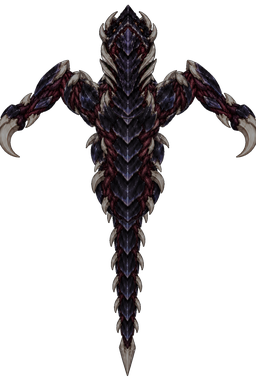
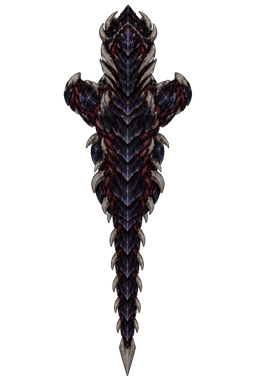
Spitter: no arms; the body rears out of one thick tapering tail
Standing and firing, the tail lies curled to one side and stays planted while
the body rears and lunges; on the move it uncurls and slithers. Its first
slices follow the body so the tail never detaches.

diff --git a/src/main/java/com/dillon/starsectormarines/battle/appearance/RavSpitterRig.java b/src/main/java/com/dillon/starsectormarines/battle/appearance/RavSpitterRig.java
@@ -3,21 +3,21 @@ package com.dillon.starsectormarines.battle.appearance;
 import com.dillon.starsectormarines.battle.unit.SwarmStage;
 
 /**
- * The Spitter's skeleton, advanced once per simulation tick: an upright serpent seen from above, its chest reared over
- * a tail coiled beneath it in short slices, two arms each ending in a single hooked talon, and a cobra hood round its
- * head; built from separate parts the way infantry are. Presentation only; it reads where the sim put the body, its attack cooldown and whether it has a target, and
- * nothing in the simulation reads it back.
+ * The Spitter's skeleton, advanced once per simulation tick: an upright serpent seen from above, its haunched back
+ * reared up out of the front of one thick tail in short slices, and a cobra hood round its head; built from separate parts
+ * the way infantry are. Presentation only; it reads where the sim put the body, its attack cooldown and whether it has
+ * a target, and nothing in the simulation reads it back.
  *
- * <p>The rig frame is the body's own, in cells, centred on the sim position (the parts canvas's {@link #ANCHOR_ROW}): x to the right, y forward. It stands on its tail: the tail curls out sideways under the reared chest, sweeps
- * back across beneath it and trails out behind ({@link #COIL}). On the move the coil loosens and a wave runs down it,
- * advanced by distance travelled so it slithers rather than paddles, the chest rolls against it and the head holds
- * steady; turning, the tail lags and bends away from the turn. At rest the coil stills to a slow sway and the
- * arms breathe. The arms are their own parts about their shoulders, so a slash can swing one alone.
+ * <p>The rig frame is the body's own, in cells, centred on the sim position (the parts canvas's {@link #ANCHOR_ROW}):
+ * x to the right, y forward. It rears up out of its tail: the tail leaves the body's centre straight back beneath the
+ * haunch, as broad as it at the root ({@link #GIRTH_ROOT}), and lies on the ground behind, tapering to its spike;
+ * standing, it rests curled to one side ({@link #REST}). On the move it uncurls and slithers, a wave running down it
+ * advanced by distance travelled so it slithers rather than paddles; the chest rolls against it and the head holds
+ * steady; turning, the tail lags and bends away from the turn. At rest it sways slowly.
  *
  * <p>Firing is timed off the attack cooldown, as the Runner's strike is, so the glob leaves on the tick the sim lobs
- * it: as the cooldown runs out with a target held it braces (the hood pops open, the chest rears back, the arms
- * raise forward), and when the cooldown jumps back up the lob has gone: the head lunges, the arms sweep back,
- * and the hood folds again once it has settled.
+ * it: as the cooldown runs out with a target held it braces (the hood pops open, the chest rears back), and when the
+ * cooldown jumps back up the lob has gone: the head lunges, and the hood folds again once it has settled.
  *
  * <p>Built on the approved round 5 design, its parts exported by
  * {@code art-source/rav-redesign/spitter/export_spitter_rig.py}.
@@ -27,35 +27,37 @@ public final class RavSpitterRig {
     /** Parts canvas px per cell; the export and the composer share it. */
     public static final float U_LAYER = 760f;
     /** Canvas row of the body anchor (the sim position) and the centre column the parts mirror about. */
-    public static final float ANCHOR_ROW = 620f, CENTRE_COL = 512f;
-    /** Canvas px of the neck, about which the head turns, and of the left shoulder socket; the right mirrors it. */
-    public static final float NECK_ROW = 300f, SHOULDER_COL = 320f, SHOULDER_ROW = 370f;
-    public static final int TAIL_SEGMENTS = 12;
-    /** Canvas rows of each tail slice's root, and of the tail's tip: the root to the spike, evenly cut. */
-    public static final float[] TAIL_ROWS = new float[TAIL_SEGMENTS + 1];
+    public static final float ANCHOR_ROW = 565f, CENTRE_COL = 512f;
+    /** Canvas row of the neck, about which the head turns. */
+    public static final float NECK_ROW = 300f;
+    /** The exported tail slices, root to spike. */
+    public static final int TAIL_ART_SLICES = 12;
+    /** Canvas rows of each exported slice's root, and of the tail's tip: the root to the spike, evenly cut. */
+    public static final float[] TAIL_ROWS = new float[TAIL_ART_SLICES + 1];
     static {
-        for (int i = 0; i <= TAIL_SEGMENTS; i++) TAIL_ROWS[i] = Math.round(480f + 1023f * i / TAIL_SEGMENTS);
+        for (int i = 0; i <= TAIL_ART_SLICES; i++) TAIL_ROWS[i] = Math.round(480f + 1023f * i / TAIL_ART_SLICES);
     }
-    /** Canvas row under the chest where the coiled tail's root is drawn, hidden beneath the back. */
-    public static final float COIL_ROOT_ROW = 540f;
-    /**
-     * The coil at rest, each slice's bend off the one above it (degrees, counter-clockwise): from under the chest
-     * it shows at one hip, sweeps back across behind the haunch and leaves the tip trailing out behind.
-     */
-    static final float[] COIL = {0f, 25f, 25f, 20f, -15f, -25f, -30f, -30f, -20f, 0f, 10f, 10f};
-    /** How much of the coil is let out at full glide. */
-    private static final float COIL_LOOSEN = 0.45f;
-
-    /** Arm indices. */
-    public static final int LEFT = 0, RIGHT = 1;
+    /** The drawn tail: each drawn slice's exported slice, root to spike. */
+    public static final int[] TAIL_ART = {0, 1, 2, 3, 4, 5, 6, 7, 8, 9, 10, 11};
+    public static final int TAIL_SEGMENTS = TAIL_ART.length;
+    /** The tail is drawn at this share of its canvas size. */
+    public static final float TAIL_SCALE = 1.2f;
+    /** The tail's girth against its art: as broad as the haunch at the root, tapering to the spike. */
+    static final float GIRTH_ROOT = 1.6f, GIRTH_TIP = 0.9f;
+    /** A drawn slice's length, canvas px. */
+    public static final float SLICE_PX = (TAIL_ROWS[1] - TAIL_ROWS[0]) * TAIL_SCALE;
+    /** Slices under the body, straight back from its centre; the rest lie on the ground behind. */
+    static final int ROOT_SLICES = 3;
+    /** The rest pose, each slice's bend off the one above it (degrees): straight back, then curling to one side. */
+    static final float[] REST = {0f, 0f, 0f, 6f, 12f, 16f, 18f, 18f, 18f, 18f, 16f, 14f};
 
     /** The slither: cells travelled per tail wave, the wave's lag down each slice (cycles), and its bend per slice. */
     private static final float WAVE_CELLS = 1.1f, WAVE_LAG = 0.1f, SWING = 14f;
     private static final float MOVE_BELOW = 0.12f, MOVE_FULL = 1.2f;
     /** The chest's roll against the tail, degrees, and its sideways carry, cells. */
     private static final float ROLL = 4f, CARRY = 0.02f;
-    /** At rest: the tail's slow sway (degrees, Hz) and the arms' breath. */
-    private static final float IDLE_SWAY = 4f, IDLE_HZ = 0.35f, CLAW_BREATH = 3f;
+    /** At rest: the tail's slow sway, degrees and Hz. */
+    private static final float IDLE_SWAY = 4f, IDLE_HZ = 0.35f;
     /** Degrees of tail bend per degree a second of turn, split down the segments, and its limit. */
     private static final float TAIL_LAG = 0.05f, TAIL_BEND_MAX = 22f;
 
@@ -64,7 +66,7 @@ public final class RavSpitterRig {
     /** After the lob: the lunge, the settle, and how long the hood stays open after it. */
     static final float LUNGE_SECONDS = 0.10f, SETTLE_SECONDS = 0.35f, HOOD_HOLD = 0.35f, HOOD_FOLD = 0.30f;
     private static final float RESET_JUMP = 0.3f;
-    private static final float REAR = 0.06f, LUNGE = 0.09f, RISE = 0.06f, SPREAD = 20f, FLICK = 14f;
+    private static final float REAR = 0.06f, LUNGE = 0.09f, RISE = 0.06f;
 
     private float bodyX, bodyY, facingDeg;
     private boolean started;
@@ -74,7 +76,6 @@ public final class RavSpitterRig {
     private float brace;
 
     private final float[] tail = new float[TAIL_SEGMENTS];
-    private final float[] claw = new float[2];
     private float bodyAngle, shiftX, shiftY, headYaw, headScale = 1f, hood;
 
     /** @param seed the body's id, so two Spitters do not sway in step */
@@ -147,11 +148,13 @@ public final class RavSpitterRig {
         // the body: a wave down the tail on the move, a slow sway at rest, a lag through turns
         float bend = Math.max(-TAIL_BEND_MAX, Math.min(TAIL_BEND_MAX, -turnRate * TAIL_LAG));
         float idle = (1f - motion) * IDLE_SWAY * (float) Math.sin(2 * Math.PI * IDLE_HZ * time);
-        float still = 1f - Math.max(brace, lunge);        // braced, the tail is planted straight
-        for (int i = 0; i < TAIL_SEGMENTS; i++) {
-            float wave = motion * SWING * (float) Math.sin(2 * Math.PI * (psi - i * WAVE_LAG));
-            float coil = COIL[i] * (1f - COIL_LOOSEN * motion * still);
-            tail[i] = coil + (wave + idle / TAIL_SEGMENTS) * still + bend / TAIL_SEGMENTS;
+        float still = 1f - Math.max(brace, lunge);        // braced, the tail is planted
+        int trailing = TAIL_SEGMENTS - ROOT_SLICES;
+        float curl = 1f - motion * still;                 // curled at rest and while firing, uncurled on the move
+        for (int i = ROOT_SLICES; i < TAIL_SEGMENTS; i++) {
+            int along = i - ROOT_SLICES;
+            float wave = motion * SWING * (float) Math.sin(2 * Math.PI * (psi - along * WAVE_LAG));
+            tail[i] = curl * REST[i] + (wave + (bend + idle) / trailing) * still;
         }
         float cycle = (float) (2 * Math.PI * (psi + 0.5f));
         bodyAngle = motion * ROLL * (float) Math.sin(cycle) * still;
@@ -159,11 +162,6 @@ public final class RavSpitterRig {
         shiftY = -REAR * brace + LUNGE * lunge;
         headYaw = -bodyAngle * 0.8f;                       // the head holds its line while the chest rolls
         headScale = 1f + RISE * brace + 0.03f * lunge;
-        float breath = CLAW_BREATH * (float) Math.sin(2 * Math.PI * 0.5f * time + 1.3f);
-        for (int side = 0; side < 2; side++) {
-            float stride = motion * 6f * (float) Math.sin(cycle + (side == LEFT ? 0f : (float) Math.PI));
-            claw[side] = breath * (1f - motion) + stride - SPREAD * brace + FLICK * lunge;
-        }
     }
 
     private static float smooth(float t) {
@@ -184,10 +182,12 @@ public final class RavSpitterRig {
     /** Where the chest is carried off its anchor, cells in the body frame: its sideways carry, its rear and lunge. */
     public float shiftX() { return shiftX; }
     public float shiftY() { return shiftY; }
-    /** A tail slice's bend off the one above it (the first off the chest), degrees, counter-clockwise. */
+    /** A tail slice's bend off the one above it (the first off the facing), degrees, counter-clockwise. */
     public float tailAngle(int segment) { return tail[segment]; }
-    /** An arm's swing about its shoulder off its rest, degrees; + sweeps it back along the body, - raises it forward. */
-    public float clawAngle(int side) { return claw[side]; }
+    /** A drawn tail slice's girth against its art. */
+    public static float tailGirth(int segment) {
+        return GIRTH_ROOT + (GIRTH_TIP - GIRTH_ROOT) * segment / (TAIL_SEGMENTS - 1f);
+    }
     /** The head's turn about the neck off the chest, degrees, counter-clockwise. */
     public float headYaw() { return headYaw; }
     /** The head and hood's scale: raised toward the camera as it rears. */

diff --git a/src/main/java/com/dillon/starsectormarines/ops/battleview/RavSpitterComposer.java b/src/main/java/com/dillon/starsectormarines/ops/battleview/RavSpitterComposer.java
@@ -3,10 +3,10 @@ package com.dillon.starsectormarines.ops.battleview;
 import com.dillon.starsectormarines.battle.appearance.RavSpitterRig;
 
 /**
- * Draws a Spitter from its parts, seen from above: the tail's slices coiled out from under the haunch, the arms
- * about their shoulder sockets, the back over them, and the head on top, turned about its neck, with its
- * hood folded or popped open as the rig fires (the flared hood grows out from the folded one). A dead Spitter lies
- * dulled in a pool of its own acid ({@link #emitDead}).
+ * Draws a Spitter from its parts, seen from above: the tail's slices chained from the body's centre (coiled round the
+ * body standing, trailing behind on the move), the back over them, and the head on top, turned about its
+ * neck, with its hood folded or popped open as the rig fires (the flared hood grows out from the folded one). A dead
+ * Spitter lies dulled in a pool of its own acid ({@link #emitDead}).
  */
 final class RavSpitterComposer {
 
@@ -16,14 +16,12 @@ final class RavSpitterComposer {
     private static final float ANCHOR = RavSpitterRig.ANCHOR_ROW, CENTRE = RavSpitterRig.CENTRE_COL;
     /** Canvas row of each sprite's centre (the export boxes): the back, and the head in either hood state. */
     private static final float BACK_ROW = 565f, HEAD_ROW = 250f;
-    /**
-     * The left arm on its own canvas: its box's centre, its shoulder ball (the pivot set on the back's socket), the
-     * share it is drawn at, and its rest swing off the drawn pose, raised forward (degrees).
-     */
-    private static final float ARM_COL = 360f, ARM_ROW = 602.5f, ARM_PIVOT_COL = 536f, ARM_PIVOT_ROW = 517f;
-    private static final float ARM_SCALE = 0.75f, ARM_REST = -25f;
     /** The flared hood opens out from this share of its width. */
     private static final float HOOD_FROM = 0.55f;
+    /** Tail slices from the root that bend to keep the planted tail joined to the moving body. */
+    private static final int HOOKUP_SLICES = 2;
+    /** A drawn tail slice's length, cells. */
+    private static final float SLICE = RavSpitterRig.SLICE_PX / RavSpitterRig.U_LAYER;
     /** The canvas centre row of the corpse, the corpse's pool across, and the corpse drawn a little flattened. */
     private static final float CANVAS_CENTRE_ROW = 768f, POOL_CELLS = 1.25f, DEAD_SCALE = 0.97f;
 
@@ -54,42 +52,36 @@ final class RavSpitterComposer {
         ax += p[0] * ppc;
         ay += p[1] * ppc;
 
-        // the tail, chained from its root under the chest; drawn tip first so each segment lies over the one behind it
-        float[][] root = new float[RavSpitterRig.TAIL_SEGMENTS][2];
-        float[] angle = new float[RavSpitterRig.TAIL_SEGMENTS];
-        point(CENTRE, RavSpitterRig.COIL_ROOT_ROW, chest, ax, ay, ppc, p);
-        float jx = p[0], jy = p[1], a = chest;
-        for (int i = 0; i < RavSpitterRig.TAIL_SEGMENTS; i++) {
+        // the tail, chained from the body's centre. It is planted: it hangs off the sim position and the facing, so the
+        // chest's rear, lunge and roll leave it where it lies; only its hookup follows the body
+        int n = RavSpitterRig.TAIL_SEGMENTS;
+        float[][] joint = new float[n + 1][2];
+        float tailPx = spritePx * RavSpitterRig.TAIL_SCALE;
+        float jx = cx, jy = cy, a = facing;
+        for (int i = 0; i <= n; i++) {
+            joint[i][0] = jx;
+            joint[i][1] = jy;
+            if (i == n) break;
             a += rig.tailAngle(i);
-            angle[i] = a;
-            root[i][0] = jx;
-            root[i][1] = jy;
-            float length = (RavSpitterRig.TAIL_ROWS[i + 1] - RavSpitterRig.TAIL_ROWS[i]) / U;
-            rotate(0f, -length, a, p);
+            rotate(0f, -SLICE, a, p);
             jx += p[0] * ppc;
             jy += p[1] * ppc;
         }
-        for (int i = RavSpitterRig.TAIL_SEGMENTS - 1; i >= 0; i--) {
-            float back = (RavSpitterRig.TAIL_ROWS[i + 1] - RavSpitterRig.TAIL_ROWS[i]) / 2f / U;
-            rotate(0f, -back, angle[i], p);
-            LayeredSpriteCache s = art.tail[i];
-            out.add(s, root[i][0] + p[0] * ppc, root[i][1] + p[1] * ppc, s.pxWidth * spritePx,
-                    s.pxHeight * spritePx, angle[i], 1f, 1f, 1f, alpha);
+        // the root rides with the body, and the first slices bend and stretch to keep it joined to the planted rest
+        float dx = ax - cx, dy = ay - cy;
+        for (int k = 0; k < HOOKUP_SLICES; k++) {
+            float follow = 1f - (float) k / HOOKUP_SLICES;
+            joint[k][0] += dx * follow;
+            joint[k][1] += dy * follow;
         }
-
-        for (int side = 0; side < 2; side++) {        // arms about their shoulder sockets
-            float sign = side == RavSpitterRig.LEFT ? 1f : -1f;
-            float shoulderCol = CENTRE - sign * (CENTRE - RavSpitterRig.SHOULDER_COL);
-            point(shoulderCol, RavSpitterRig.SHOULDER_ROW, chest, ax, ay, ppc, p);
-            // the left swings back counter-clockwise, the right clockwise
-            float swing = sign * (ARM_REST + rig.clawAngle(side));
-            float ox = sign * (ARM_COL - ARM_PIVOT_COL) * ARM_SCALE / U;
-            float oy = (ARM_PIVOT_ROW - ARM_ROW) * ARM_SCALE / U;
-            float[] o = new float[2];
-            rotate(ox, oy, chest + swing, o);
-            LayeredSpriteCache s = art.arm[side];
-            out.add(s, p[0] + o[0] * ppc, p[1] + o[1] * ppc, s.pxWidth * spritePx * ARM_SCALE,
-                    s.pxHeight * spritePx * ARM_SCALE, chest + swing, 1f, 1f, 1f, alpha);
+        for (int i = n - 1; i >= 0; i--) {             // tip first, so each slice lies over the one behind it
+            float vx = joint[i + 1][0] - joint[i][0], vy = joint[i + 1][1] - joint[i][1];
+            float stretch = (float) Math.hypot(vx, vy) / (SLICE * ppc);
+            float sliceAngle = (float) Math.toDegrees(Math.atan2(vx, -vy));
+            LayeredSpriteCache s = art.tail[RavSpitterRig.TAIL_ART[i]];
+            out.add(s, (joint[i][0] + joint[i + 1][0]) / 2f, (joint[i][1] + joint[i + 1][1]) / 2f,
+                    s.pxWidth * tailPx * RavSpitterRig.tailGirth(i), s.pxHeight * tailPx * stretch, sliceAngle,
+                    1f, 1f, 1f, alpha);
         }
 
         point(CENTRE, BACK_ROW, chest, ax, ay, ppc, p);

diff --git a/art-source/rav-redesign/spitter/export_spitter_rig.py b/art-source/rav-redesign/spitter/export_spitter_rig.py
@@ -9,7 +9,6 @@ on the same 1024 x 1536 canvas, so every part's pixels share one frame:
              and a rounded haunch; no head, arms or tail;
   head-open  raw/part-head-open.png: the head with the hood flared and jaws open;
   head-shut  raw/part-head-shut.png: the same head with the hood folded (generated over head-open);
-  arm-l/-r   raw/part-arm.png: the whole left arm from its shoulder ball to its single talon, and its mirror;
   tail-0..11 raw/part-tail.png: the straight tail, cut into short slices from the root down, each overlapping the
              next, so it can coil under the haunch and slither in a smooth curve;
   dead       the parts assembled straight, dulled.
@@ -39,13 +38,11 @@ SCALE = 0.25
 CENTRE_COL = 512
 BACK_BOX = (240, 230, 784, 900)
 HEAD_BOX = (220, 10, 804, 490)            # both hood states share it
-ARM_BOX = (90, 330, 630, 875)             # the left arm; the right is its mirror
 TAIL_TOP, TAIL_TIP = 480, 1503            # the tail's root (hidden under the haunch) and its spike's point
 TAIL_SLICES = 12
 TAIL_SEAMS = tuple(round(TAIL_TOP + (TAIL_TIP - TAIL_TOP) * i / TAIL_SLICES) for i in range(TAIL_SLICES + 1))
 TAIL_OVERLAP = 14                         # each slice reaches this far past its seams, so a bend shows no gap
 TAIL_COLS = (380, 644)
-ARM_SCALE = 0.75                          # the arm was generated large; the composer draws it at this share
 DECAL_HEIGHT = 160
 ORIGINAL_DECAL_WIDTH = 2048
 
@@ -79,11 +76,6 @@ def shrink(img, scale=SCALE):
     return img.convert("RGBa").resize((w, h), Image.LANCZOS).convert("RGBA")
 
 
-def mirror_box(box):
-    x0, y0, x1, y1 = box
-    return (2 * CENTRE_COL - x1, y0, 2 * CENTRE_COL - x0, y1)
-
-
 def masked(plate, mask):
     return plate * np.dstack([np.ones(mask.shape + (3,)), mask])
 
@@ -106,25 +98,18 @@ def cut_tail(tail):
 
 
 def parts():
-    back, tail, arm = (keyed(RAW / f"part-{n}.png") for n in ("back", "tail", "arm"))
+    back, tail = (keyed(RAW / f"part-{n}.png") for n in ("back", "tail"))
     layers = {"back": (back, BACK_BOX),
               "head-open": (keyed(RAW / "part-head-open.png"), HEAD_BOX),
-              "head-shut": (keyed(RAW / "part-head-shut.png"), HEAD_BOX),
-              "arm-l": (arm, ARM_BOX),
-              "arm-r": (arm[:, ::-1], mirror_box(ARM_BOX))}
+              "head-shut": (keyed(RAW / "part-head-shut.png"), HEAD_BOX)}
     layers.update(cut_tail(tail))
-    return layers, assembled(back, tail, arm, layers["head-shut"][0])
+    return layers, assembled(back, tail, layers["head-shut"][0])
 
 
-def assembled(back, tail, arm, head):
-    """The parts put together straight, as the dead body lies: tail, arms at their sockets, back, folded head."""
+def assembled(back, tail, head):
+    """The parts put together straight, as the dead body lies: tail, back, folded head."""
     canvas = to_image(np.zeros_like(back))
     canvas.alpha_composite(to_image(tail))
-    a = shrink(to_image(arm), ARM_SCALE)
-    # the arm's shoulder ball (536, 517) onto the back's left socket (320, 370), and its mirror
-    x, y = round(320 - 536 * ARM_SCALE), round(370 - 517 * ARM_SCALE)
-    canvas.alpha_composite(a, (x, y))
-    canvas.alpha_composite(a.transpose(Image.FLIP_LEFT_RIGHT), (2 * CENTRE_COL - x - a.width, y))
     canvas.alpha_composite(to_image(back))
     canvas.alpha_composite(to_image(head))
     return np.asarray(canvas).astype(float)

diff --git a/src/main/java/com/dillon/starsectormarines/ops/battleview/RavSpitterAssets.java b/src/main/java/com/dillon/starsectormarines/ops/battleview/RavSpitterAssets.java
@@ -8,9 +8,8 @@ import java.util.function.Function;
 
 /**
  * The Spitter's parts, exported by {@code art-source/rav-redesign/spitter/export_spitter_rig.py}: its haunched back,
- * its head with the hood folded and popped open, its two talon arms and its tail in short slices, all head-up; the
- * parts assembled and dulled for its corpse, and the acid pool it lies in. Arms are indexed left, right; tail slices
- * from the root down.
+ * its head with the hood folded and popped open and its tail in short slices, all head-up; the parts assembled and
+ * dulled for its corpse, and the acid pool it lies in. Tail slices run from the root down.
  */
 public final class RavSpitterAssets {
 
@@ -21,8 +20,7 @@ public final class RavSpitterAssets {
     final LayeredSpriteCache headOpen;
     final LayeredSpriteCache dead;
     final LayeredSpriteCache pool;
-    final LayeredSpriteCache[] arm = new LayeredSpriteCache[2];
-    final LayeredSpriteCache[] tail = new LayeredSpriteCache[RavSpitterRig.TAIL_SEGMENTS];
+    final LayeredSpriteCache[] tail = new LayeredSpriteCache[RavSpitterRig.TAIL_ART_SLICES];
 
     private RavSpitterAssets(LayeredSpriteCache back, LayeredSpriteCache headShut, LayeredSpriteCache headOpen,
                              LayeredSpriteCache dead, LayeredSpriteCache pool) {
@@ -40,9 +38,6 @@ public final class RavSpitterAssets {
                 loader.apply(ROOT + "dead.png"), loader.apply(ROOT + "acid-pool.png"));
         if (assets.back == null || assets.headShut == null || assets.headOpen == null || assets.dead == null
                 || assets.pool == null) return null;
-        assets.arm[0] = loader.apply(ROOT + "arm-l.png");
-        assets.arm[1] = loader.apply(ROOT + "arm-r.png");
-        if (assets.arm[0] == null || assets.arm[1] == null) return null;
         for (int i = 0; i < assets.tail.length; i++) {
             assets.tail[i] = loader.apply(ROOT + "tail-" + i + ".png");
             if (assets.tail[i] == null) return null;
@@ -58,7 +53,6 @@ public final class RavSpitterAssets {
         all.add(headOpen);
         all.add(dead);
         all.add(pool);
-        for (LayeredSpriteCache a : arm) all.add(a);
         for (LayeredSpriteCache t : tail) all.add(t);
         return all;
     }
